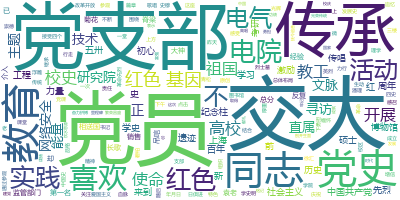
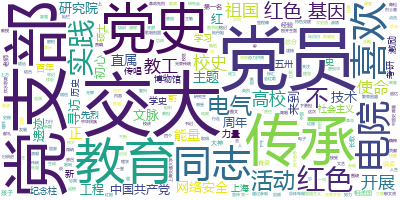
update

diff --git a/wechat/templates/search/index.html b/wechat/templates/search/index.html
@@ -32,7 +32,13 @@
             line-height: 20px;
             text-align: left;
         }
-
+        .cy-title {
+            margin-left: 100px;
+            margin-bottom: 30px;
+            font-size: 18px;
+            line-height: 20px;
+            text-align: left;
+        }
         .article_title {
             padding-left: 7px;
             padding-right: 7px;
@@ -72,10 +78,6 @@
         a:active {
             color: rgb(116, 114, 114);
             text-decoration: none;
-        }
-
-        .image {
-            
         }
     </style>
 </head>
@@ -127,14 +129,18 @@
         </div>
         <form method="POST">
             {% csrf_token %}
-            <div class="input-group" style="margin-top:0px;margin-left: 100px;margin-right: 100px;margin-bottom: 100px">
+            <div class="input-group" style="margin-top:0px;margin-left: 100px;margin-right: 100px;margin-bottom: 80px">
                 <input type="text" class="form-control" placeholder="https://mp.weixin.qq.com/......" name="word_url" />
                 <span class="input-group-btn">
                     <button class="btn btn-info btn-search" onclick="fresh()">搜索</button>
                 </span>
-                {% load static %}
+                
+            </div>
+            <div class="cy-title">
+                <p>当前显示的是：{{cy}}</p>
             </div>
             <div align="center" style="margin-bottom: 100px;">
+                {% load static %}
                 <img src="{% static "imags/wordout.png" %}" style="width: 600px;">
             </div>
         </form>

diff --git a/wechat/search/views.py b/wechat/search/views.py
@@ -24,11 +24,13 @@ from spider.getArticles import get_articles_api
 
 def index(request):
     linklist = Articles.objects.all()
+    cy=''
     if request.method == "POST":
         word_url = request.POST.get("word_url")
+        cy=word_url
         word_url = [word_url]
         word_main(word_url)
-    return render(request, 'search/index.html', {'linklist': linklist[0:6]})
+    return render(request, 'search/index.html', {'linklist': linklist[0:6],'cy':cy})
 
 
 def logins(request):
